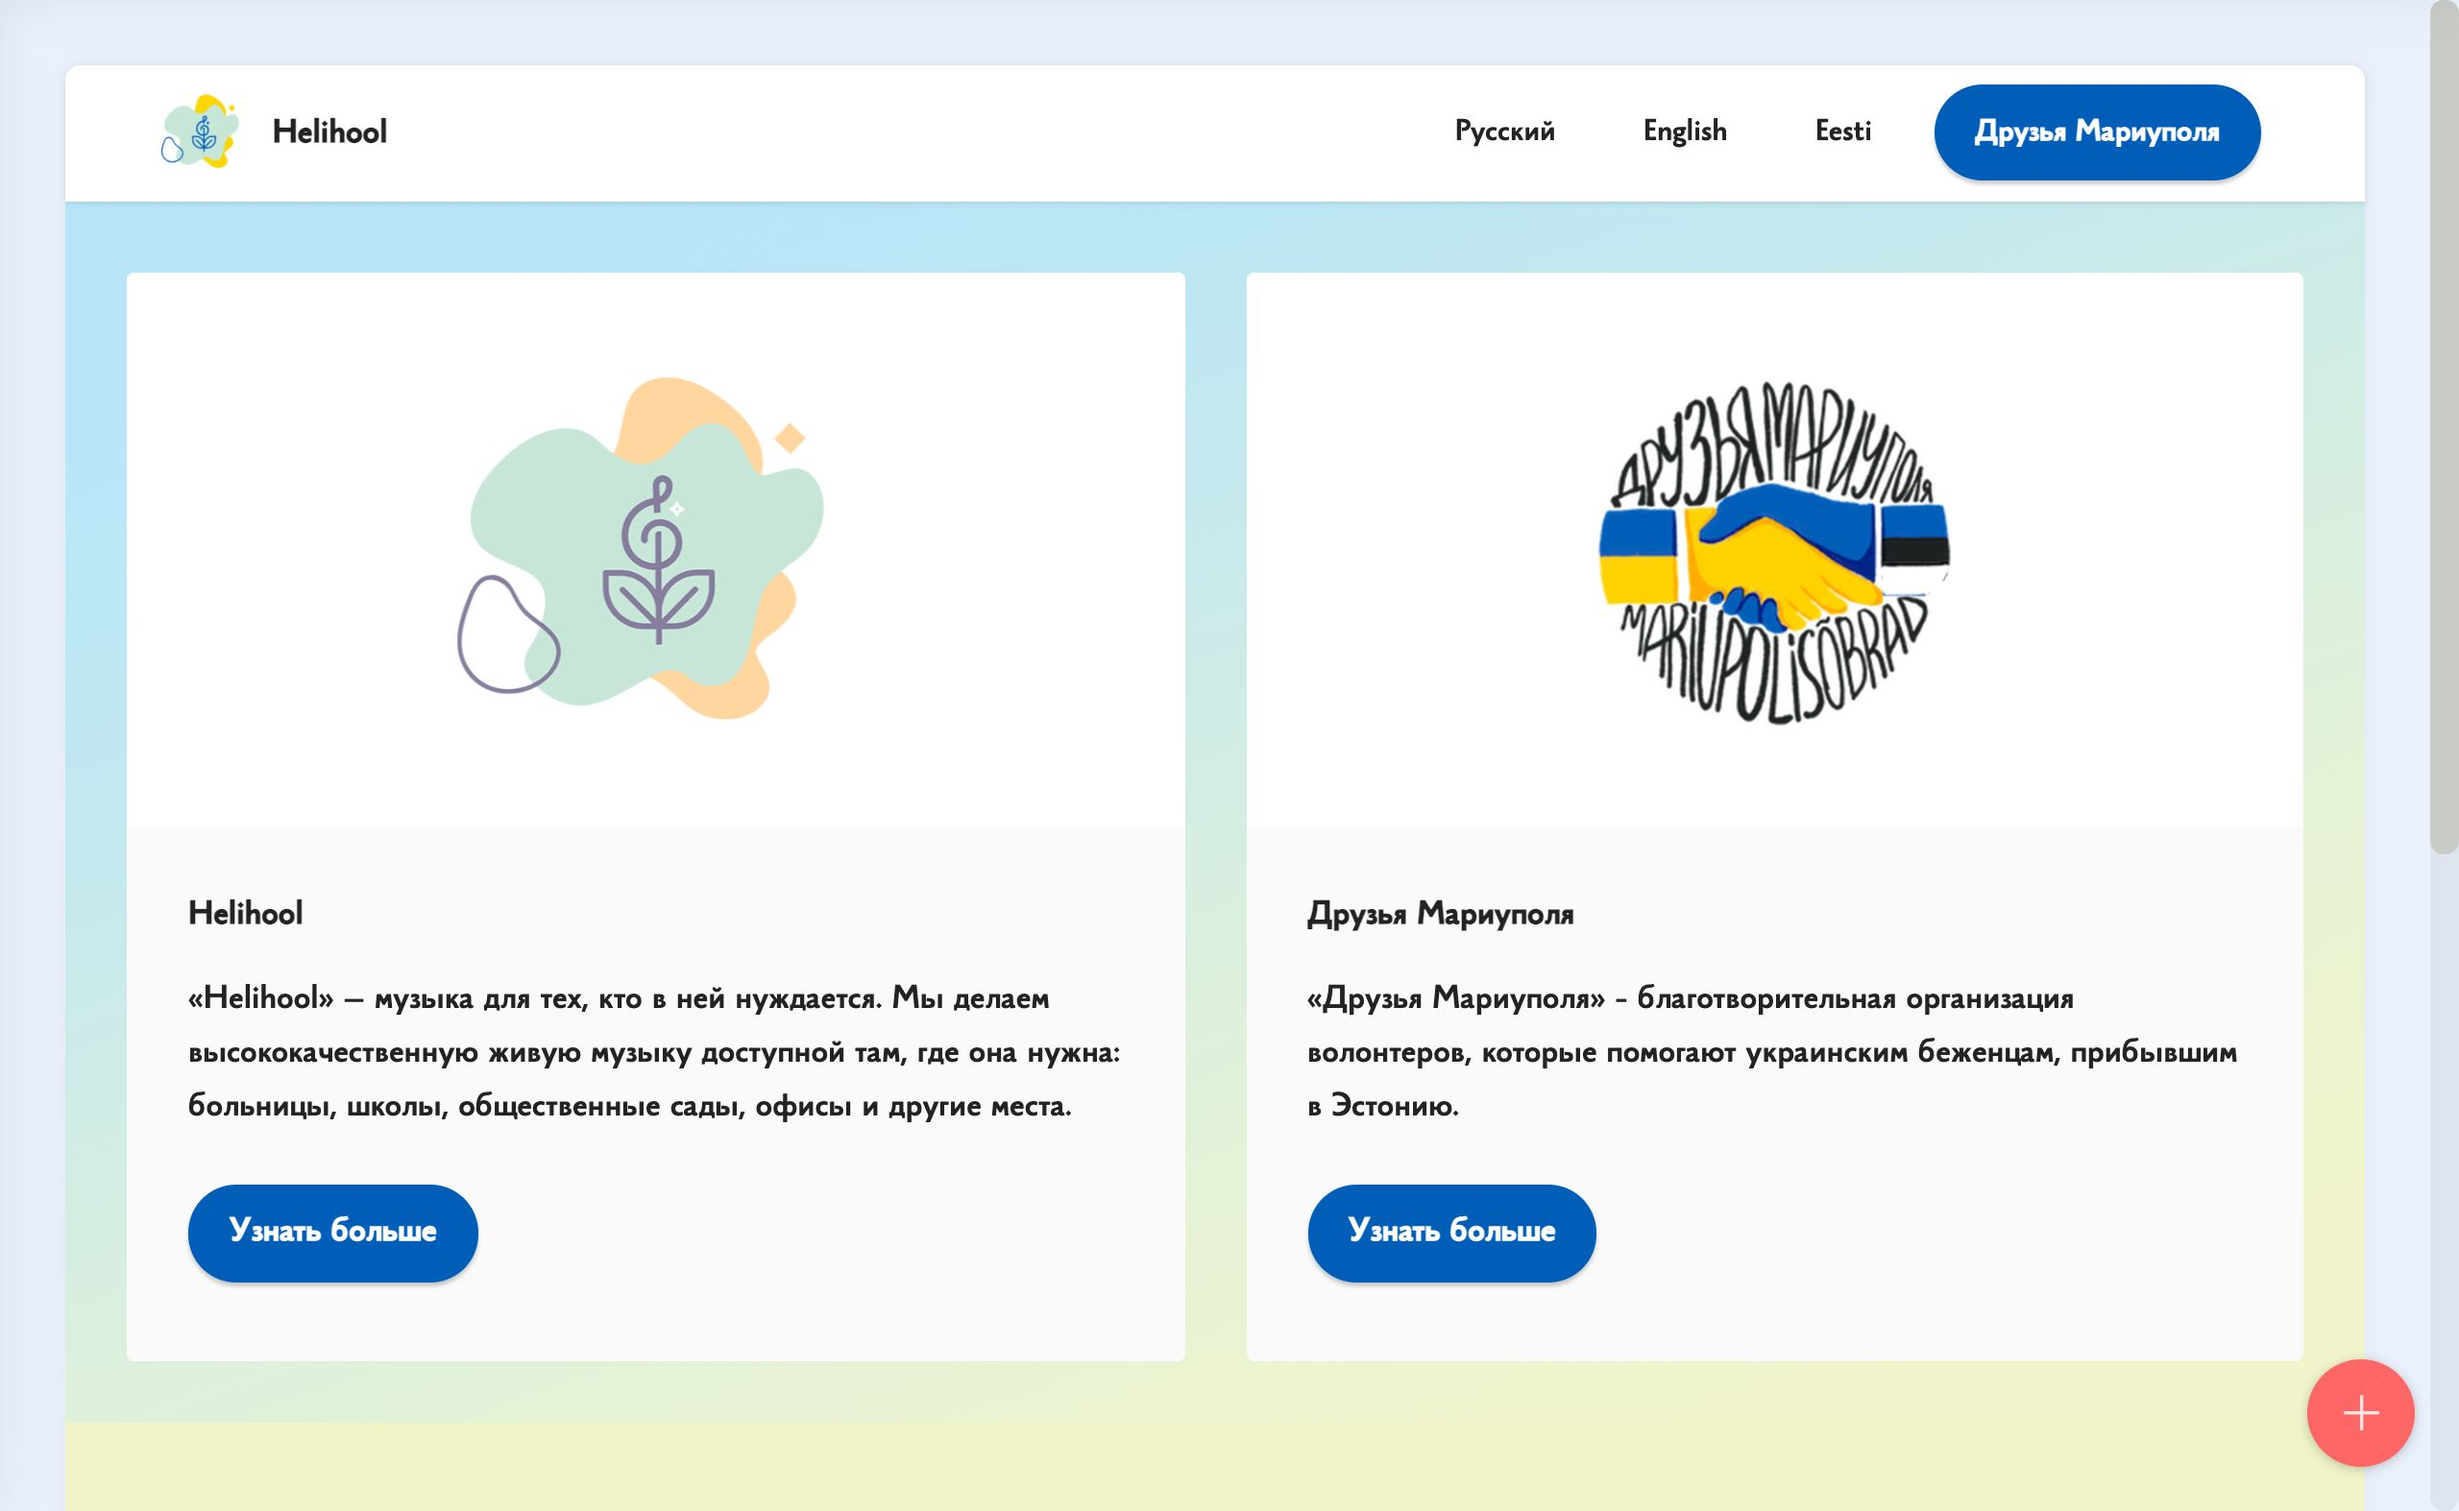
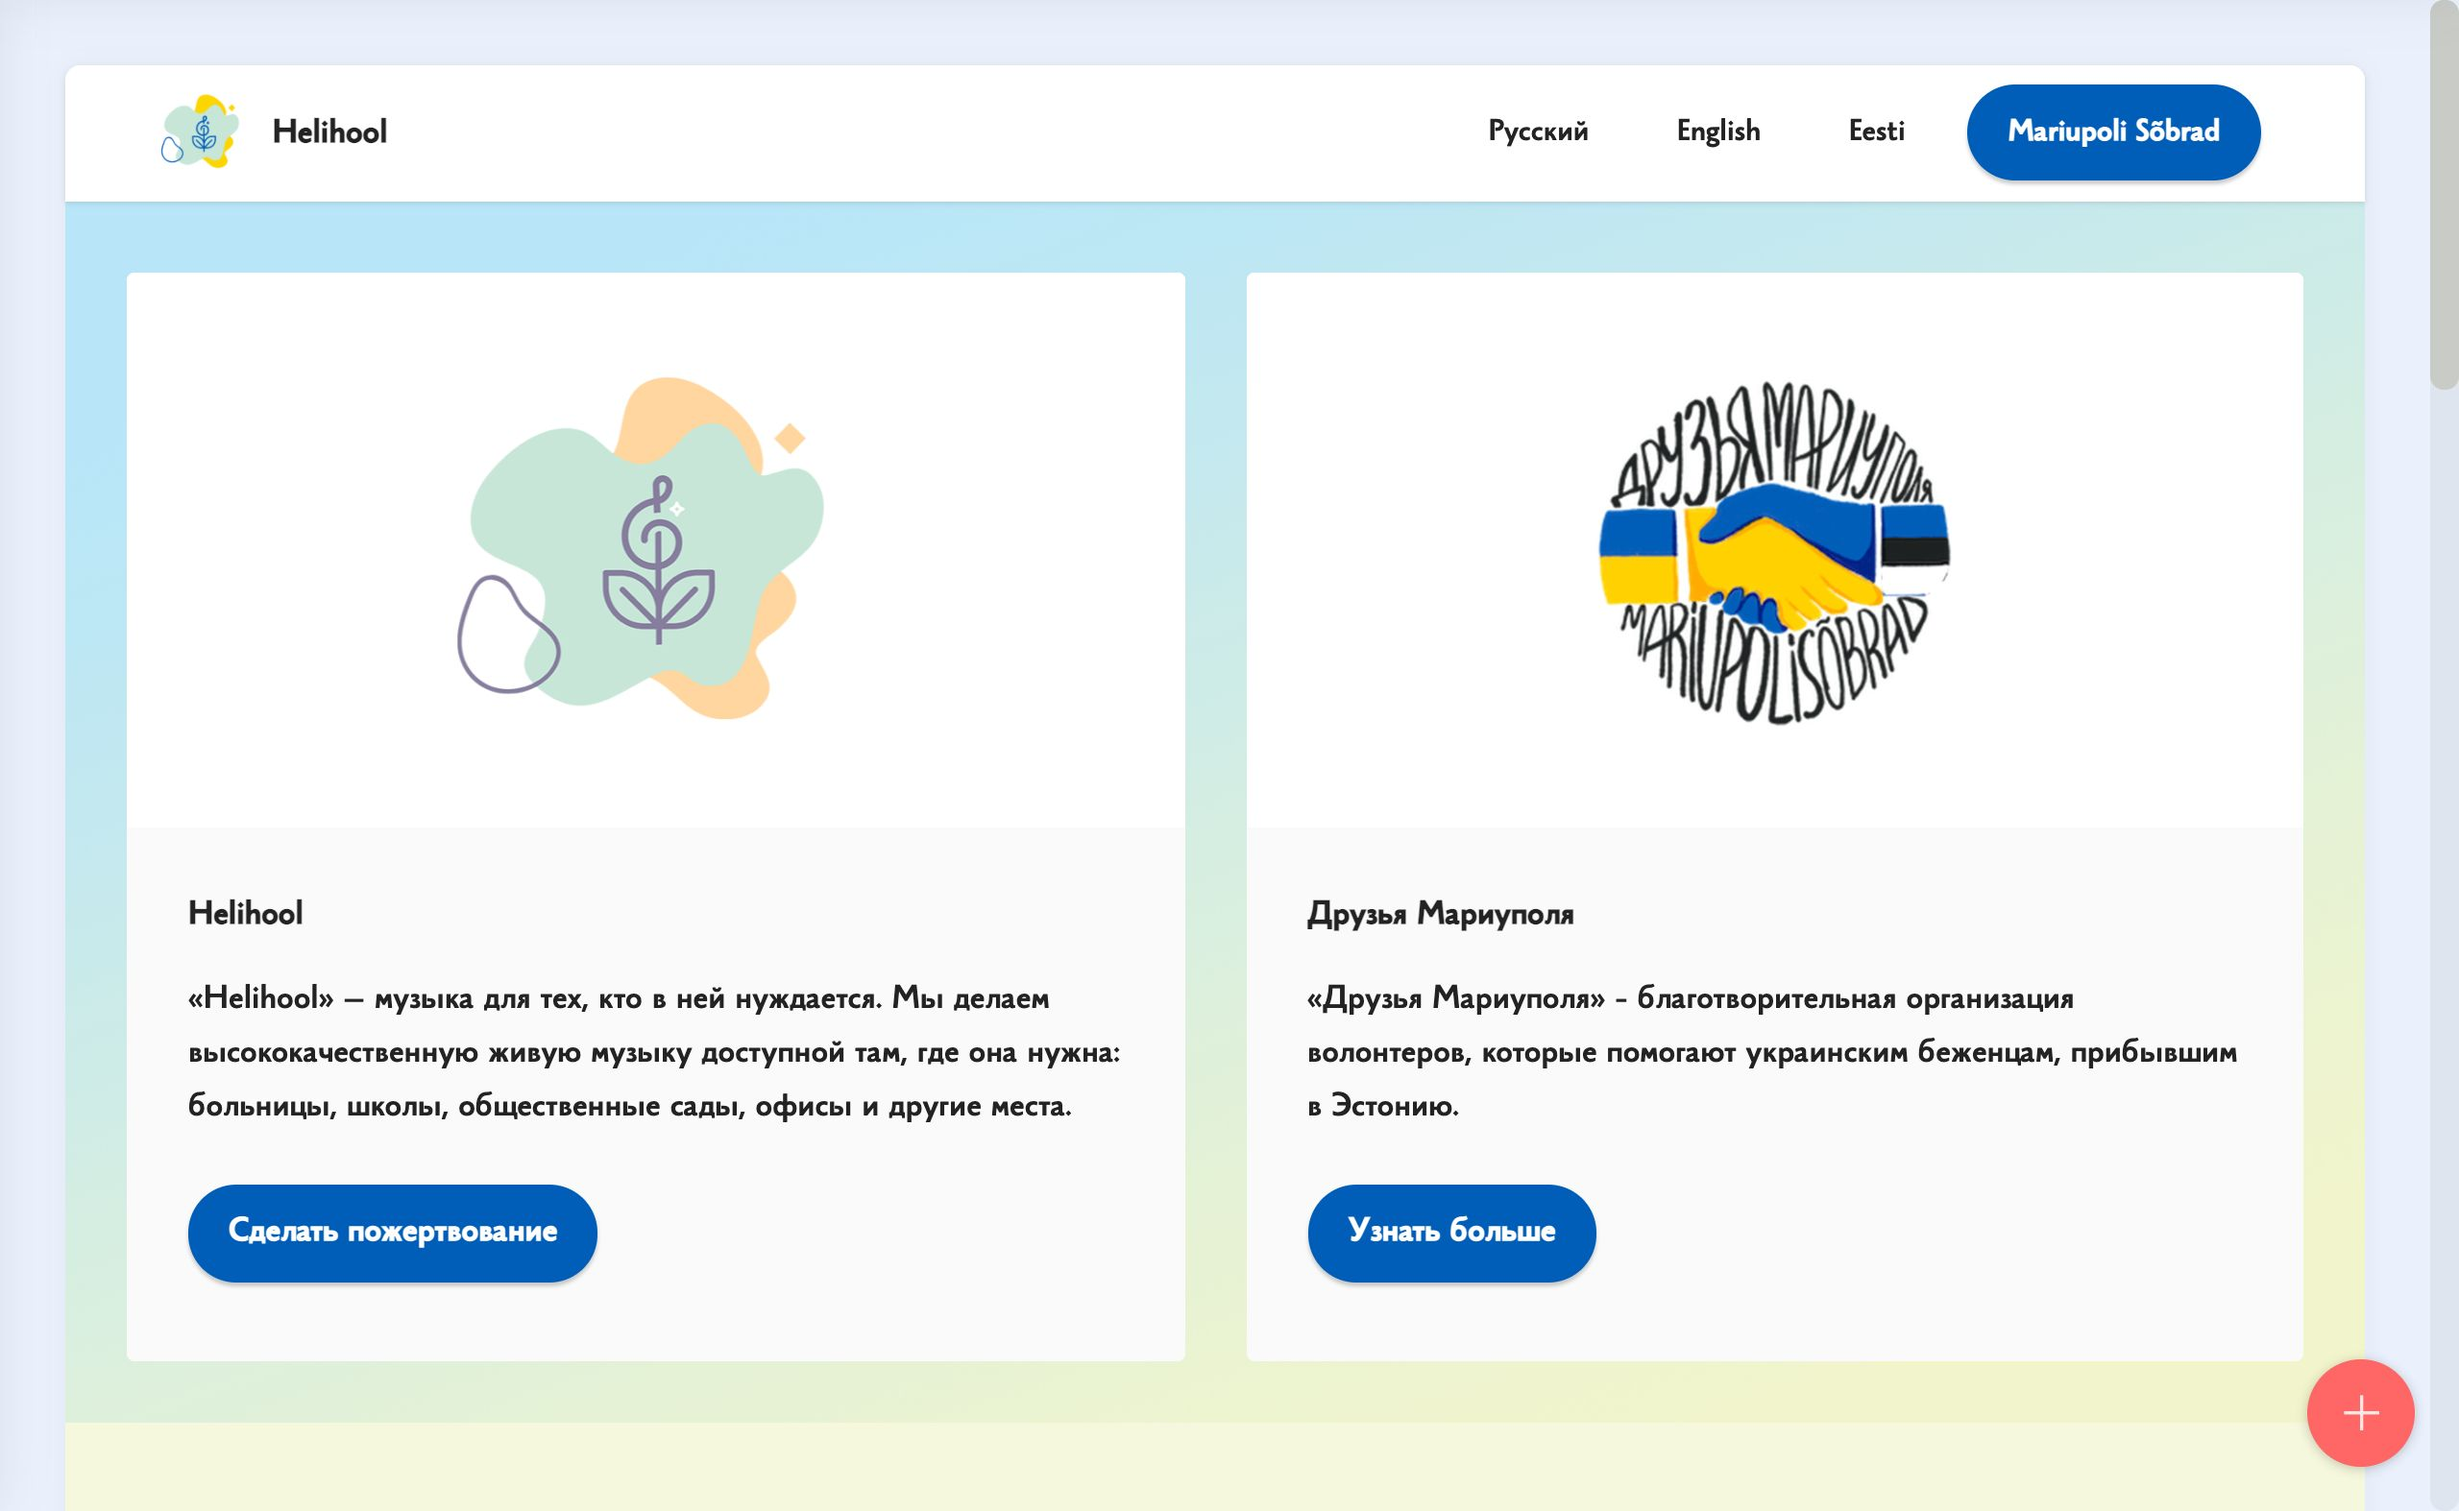
en donate fix

diff --git a/index-et.html b/index-et.html
@@ -59,37 +59,7 @@ src="https://www.facebook.com/tr?id=723620309092103&ev=PageView&noscript=1"
 </head>
 <body>
   
-  <section data-bs-version="5.1" class="menu menu2 cid-t6ViHqtMx5" once="menu" id="menu2-1y">
-    
-    <nav class="navbar navbar-dropdown navbar-fixed-top navbar-expand-lg">
-        <div class="container">
-            <div class="navbar-brand">
-                <span class="navbar-logo">
-                    <a href="https://helihool.ee">
-                        <img src="assets/images/logo-transp-new-128x128.png" alt="Друзья Мариуполя" style="height: 3rem;">
-                    </a>
-                </span>
-                <span class="navbar-caption-wrap"><a class="navbar-caption text-black display-7" href="#">Mariupoli Sõbrad</a></span>
-            </div>
-            <button class="navbar-toggler" type="button" data-toggle="collapse" data-bs-toggle="collapse" data-target="#navbarSupportedContent" data-bs-target="#navbarSupportedContent" aria-controls="navbarNavAltMarkup" aria-expanded="false" aria-label="Toggle navigation">
-                <div class="hamburger">
-                    <span></span>
-                    <span></span>
-                    <span></span>
-                    <span></span>
-                </div>
-            </button>
-            <div class="collapse navbar-collapse" id="navbarSupportedContent">
-                <ul class="navbar-nav nav-dropdown" data-app-modern-menu="true"><li class="nav-item"><a class="nav-link link text-black text-primary display-4" href="index-en.html">English</a>
-                    </li><li class="nav-item"><a class="nav-link link text-black text-primary display-4" href="index.html">Русский</a></li></ul>
-                
-                <div class="navbar-buttons mbr-section-btn"><a class="btn btn-primary display-4" href="https://helihool.ee/Helihool/index.html">Helihool</a></div>
-            </div>
-        </div>
-    </nav>
-</section>
-
-<section data-bs-version="5.1" class="gallery3 cid-t6ViHnYhSX" id="gallery3-1r">
+  <section data-bs-version="5.1" class="gallery3 cid-t6ViHnYhSX" id="gallery3-1r">
     
     <div class="mbr-overlay"></div>
     <div class="container-fluid">
@@ -273,6 +243,36 @@ src="https://www.facebook.com/tr?id=723620309092103&ev=PageView&noscript=1"
             </div>
         </div>
     </div>
+</section>
+
+<section data-bs-version="5.1" class="menu menu2 cid-t6ViHqtMx5" once="menu" id="menu2-1y">
+    
+    <nav class="navbar navbar-dropdown navbar-fixed-top navbar-expand-lg">
+        <div class="container">
+            <div class="navbar-brand">
+                <span class="navbar-logo">
+                    <a href="https://helihool.ee">
+                        <img src="assets/images/logo-transp-new-128x128.png" alt="Друзья Мариуполя" style="height: 3rem;">
+                    </a>
+                </span>
+                <span class="navbar-caption-wrap"><a class="navbar-caption text-black display-7" href="#">Mariupoli Sõbrad</a></span>
+            </div>
+            <button class="navbar-toggler" type="button" data-toggle="collapse" data-bs-toggle="collapse" data-target="#navbarSupportedContent" data-bs-target="#navbarSupportedContent" aria-controls="navbarNavAltMarkup" aria-expanded="false" aria-label="Toggle navigation">
+                <div class="hamburger">
+                    <span></span>
+                    <span></span>
+                    <span></span>
+                    <span></span>
+                </div>
+            </button>
+            <div class="collapse navbar-collapse" id="navbarSupportedContent">
+                <ul class="navbar-nav nav-dropdown" data-app-modern-menu="true"><li class="nav-item"><a class="nav-link link text-black text-primary display-4" href="index-en.html">English</a>
+                    </li><li class="nav-item"><a class="nav-link link text-black text-primary display-4" href="index.html">Русский</a></li></ul>
+                
+                <div class="navbar-buttons mbr-section-btn"><a class="btn btn-primary display-4" href="https://helihool.ee/Helihool/index.html">Helihool</a></div>
+            </div>
+        </div>
+    </nav>
 </section>
 
 

diff --git a/index-en.html b/index-en.html
@@ -105,7 +105,7 @@ src="https://www.facebook.com/tr?id=723620309092103&ev=PageView&noscript=1"
                         
                         <p class="mbr-text mbr-fonts-style mt-3 display-7"> «Mariupol's Friends» – charity volunteer organisation, helping Ukrainian war refugees, who came to Estonia. <br></p>
                     </div>
-                    <div class="mbr-section-btn item-footer mt-2"><a href="index.html#donate" class="btn btn-primary item-btn display-7">Donate</a></div>
+                    <div class="mbr-section-btn item-footer mt-2"><a href="index-en.html#donate" class="btn btn-primary item-btn display-7">Donate</a></div>
                 </div>
             </div><div class="item features-image сol-12 col-md-6 col-lg-6">
                 <div class="item-wrapper">
@@ -207,7 +207,7 @@ src="https://www.facebook.com/tr?id=723620309092103&ev=PageView&noscript=1"
     </div>
 </section>
 
-<div id="custom-html-1o"><!-- Type valid HTML here -->
+<div id="donate"><!-- Type valid HTML here -->
 
 <div>
     <iframe src="https://donationbox.ee/embed?iban=EE534204278619625400&amp;campaign_title=Help+for+Ukrainian+refugees+in+Estonia+%2F+abi+Ukraina+pagulastele+Eestis&amp;payee=Mittetulundus%C3%BChing+Helihool&amp;detail=Help+for+Ukrainian+refugees+%2F+abi+Ukraina+pagulastele&amp;pphb=GYBURV4YX4KLY&amp;tax=1&amp;sebuid=7f741bb6-ecb3-4c39-a661-513fe1229fe1&amp;sebuid_st=2fd9407d-b827-4b5b-aae7-9889d5facc74" width="100%" height="950" style="border:none;overflow:hidden" scrolling="no"></iframe>

diff --git a/assets/mobirise/css/mbr-additional.css b/assets/mobirise/css/mbr-additional.css
@@ -1427,10 +1427,10 @@ a {
 .cid-t6V5d5w9KK .card-box {
   text-align: left;
 }
-#custom-html-1o {
+#donate {
   /* Type valid CSS here */
 }
-#custom-html-1o div {
+#donate div {
   padding: 0px 0;
   color: #777;
   text-align: center;
@@ -1438,7 +1438,7 @@ a {
   overflow-x: hidden;
   overflow-Y: hidden;
 }
-#custom-html-1o p {
+#donate p {
   font-size: 60px;
   color: #777;
 }
